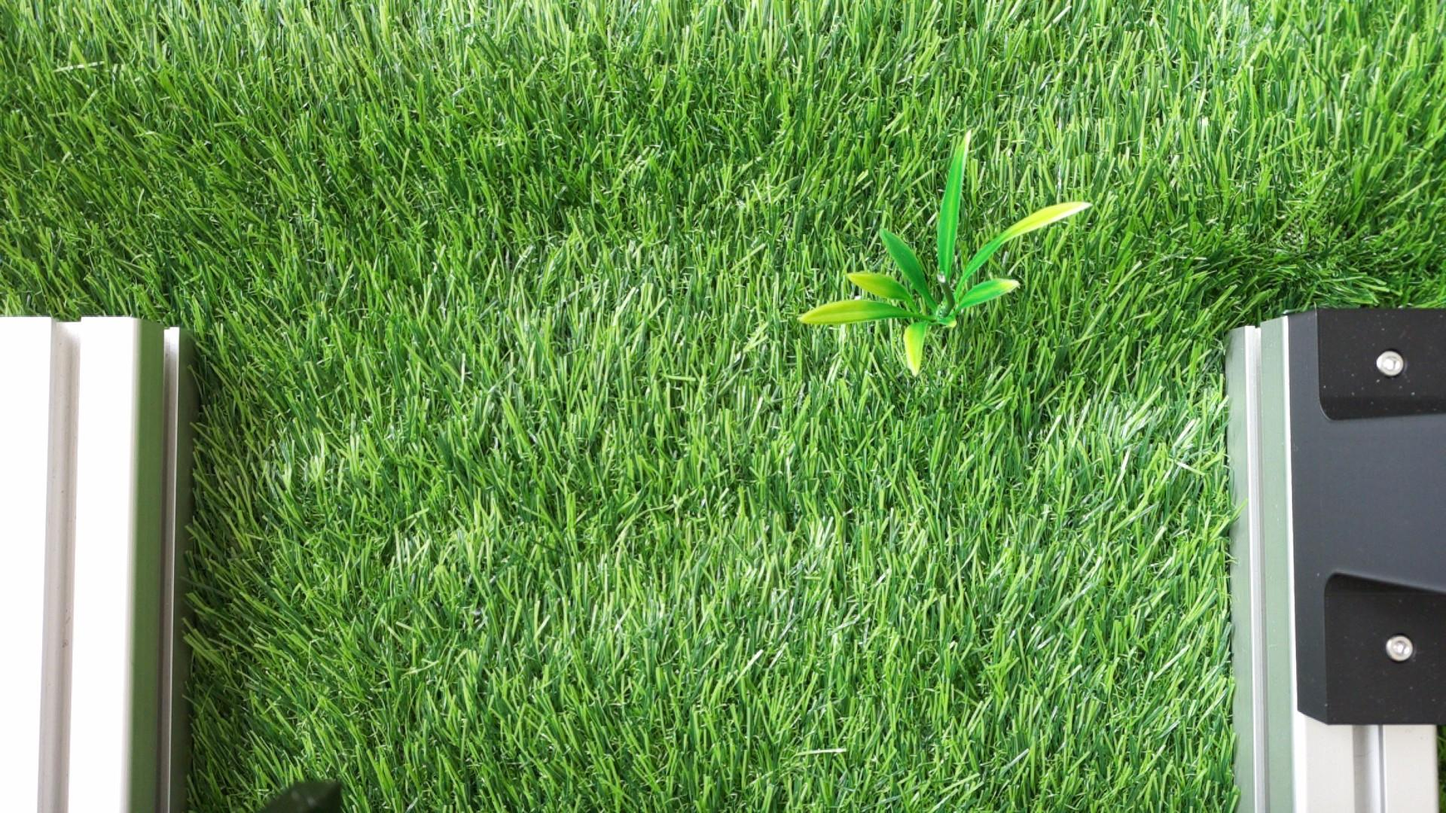
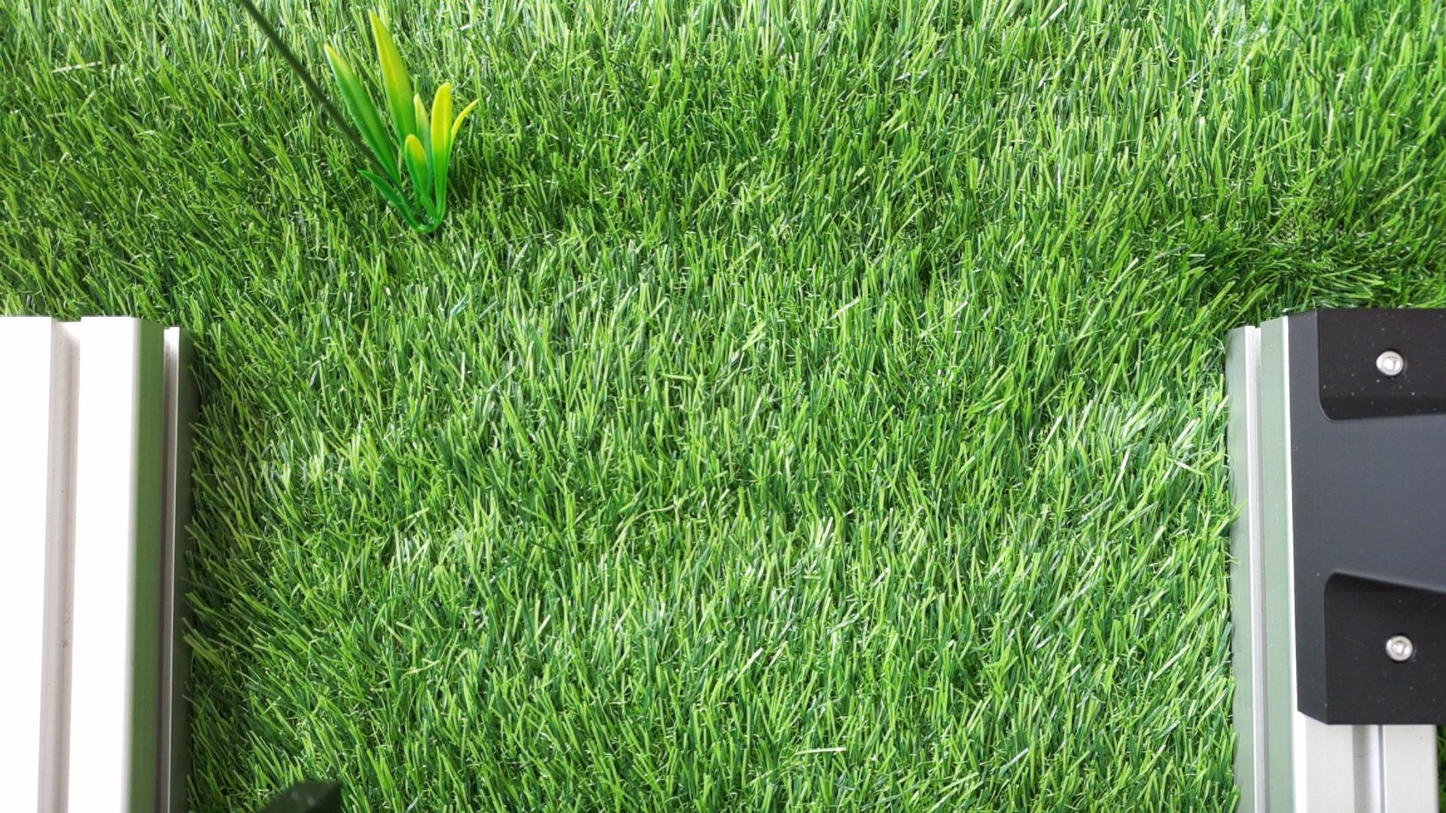
new image

diff --git a/src/inference/inference/model_eval.py b/src/inference/inference/model_eval.py
@@ -11,8 +11,8 @@ url = "http://10.0.0.171:8000"
 neo = Pi5Neo('/dev/spidev0.0', 16, 800)
 a = 1.0
 
-actual_base = (725, 371)
-test_name = "test4"
+actual_base = (1251, 417)
+test_name = "test5"
 
 models = {
     "indoor_pose": "/mnt/shared/weedy_ros/src/inference/inference/models/indoor_pose_ncnn_model",
